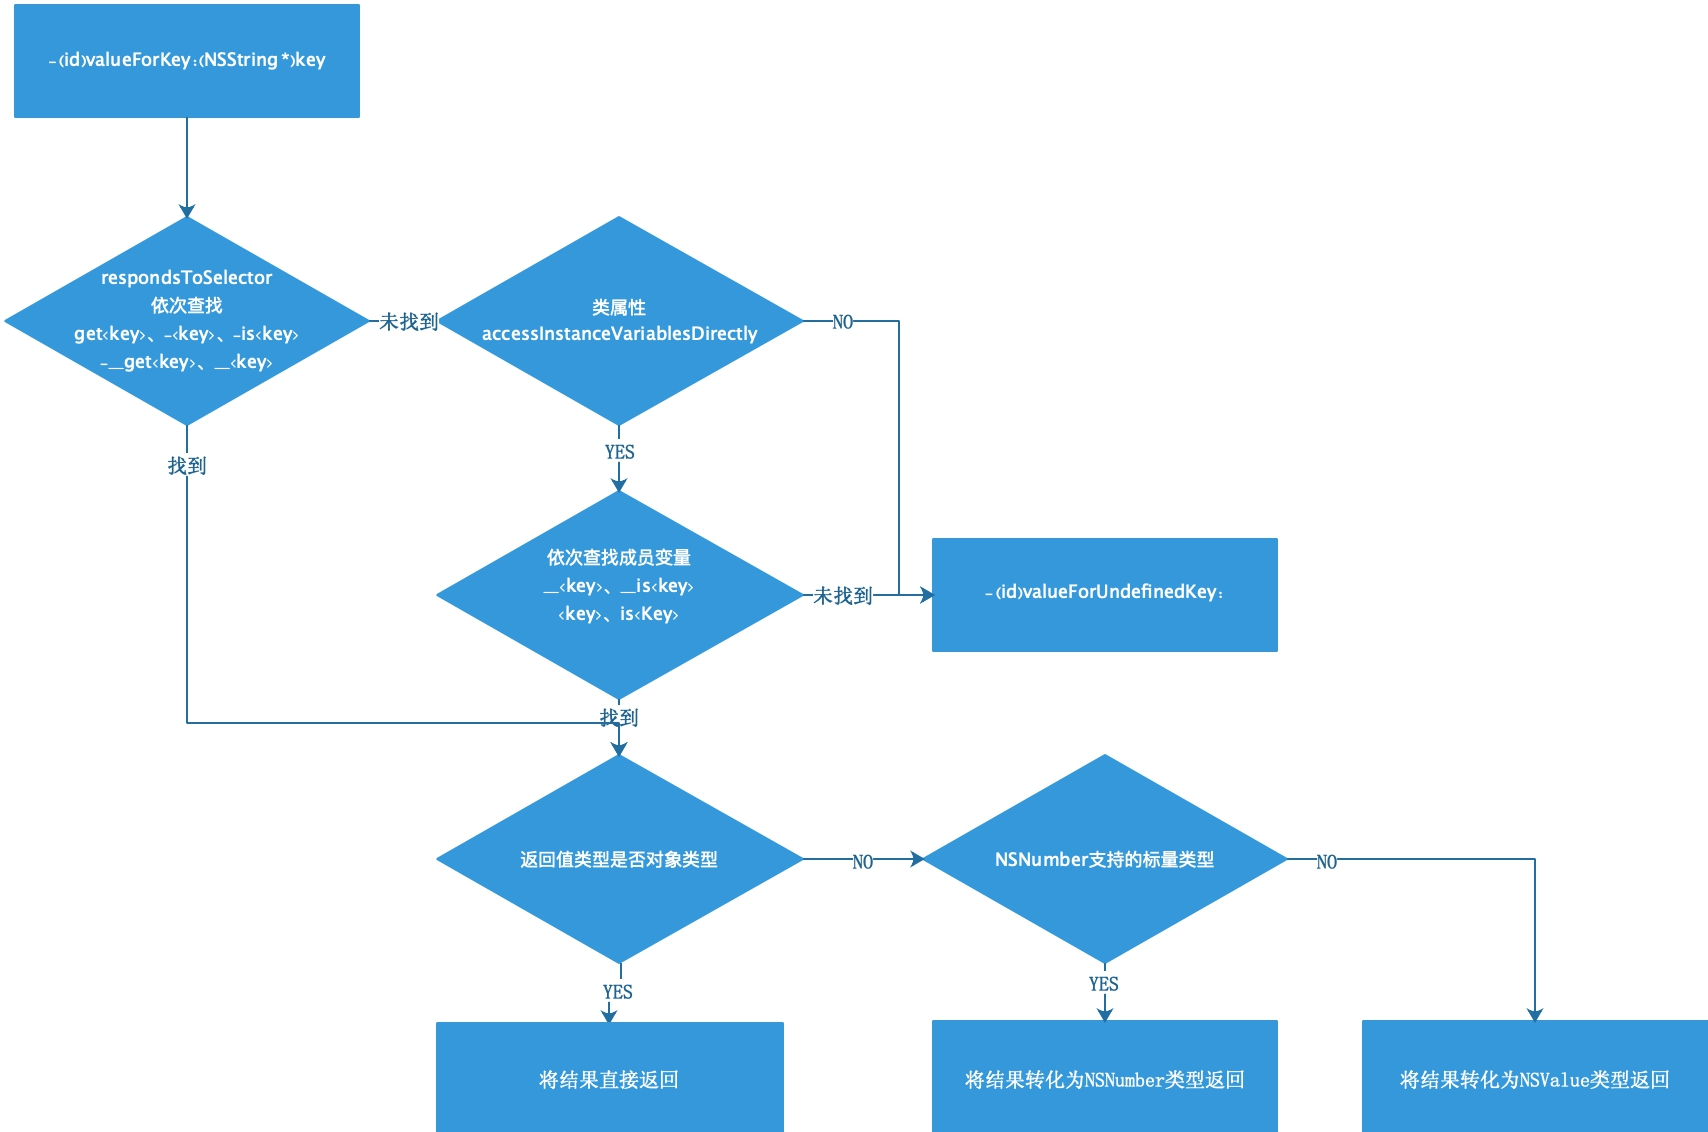
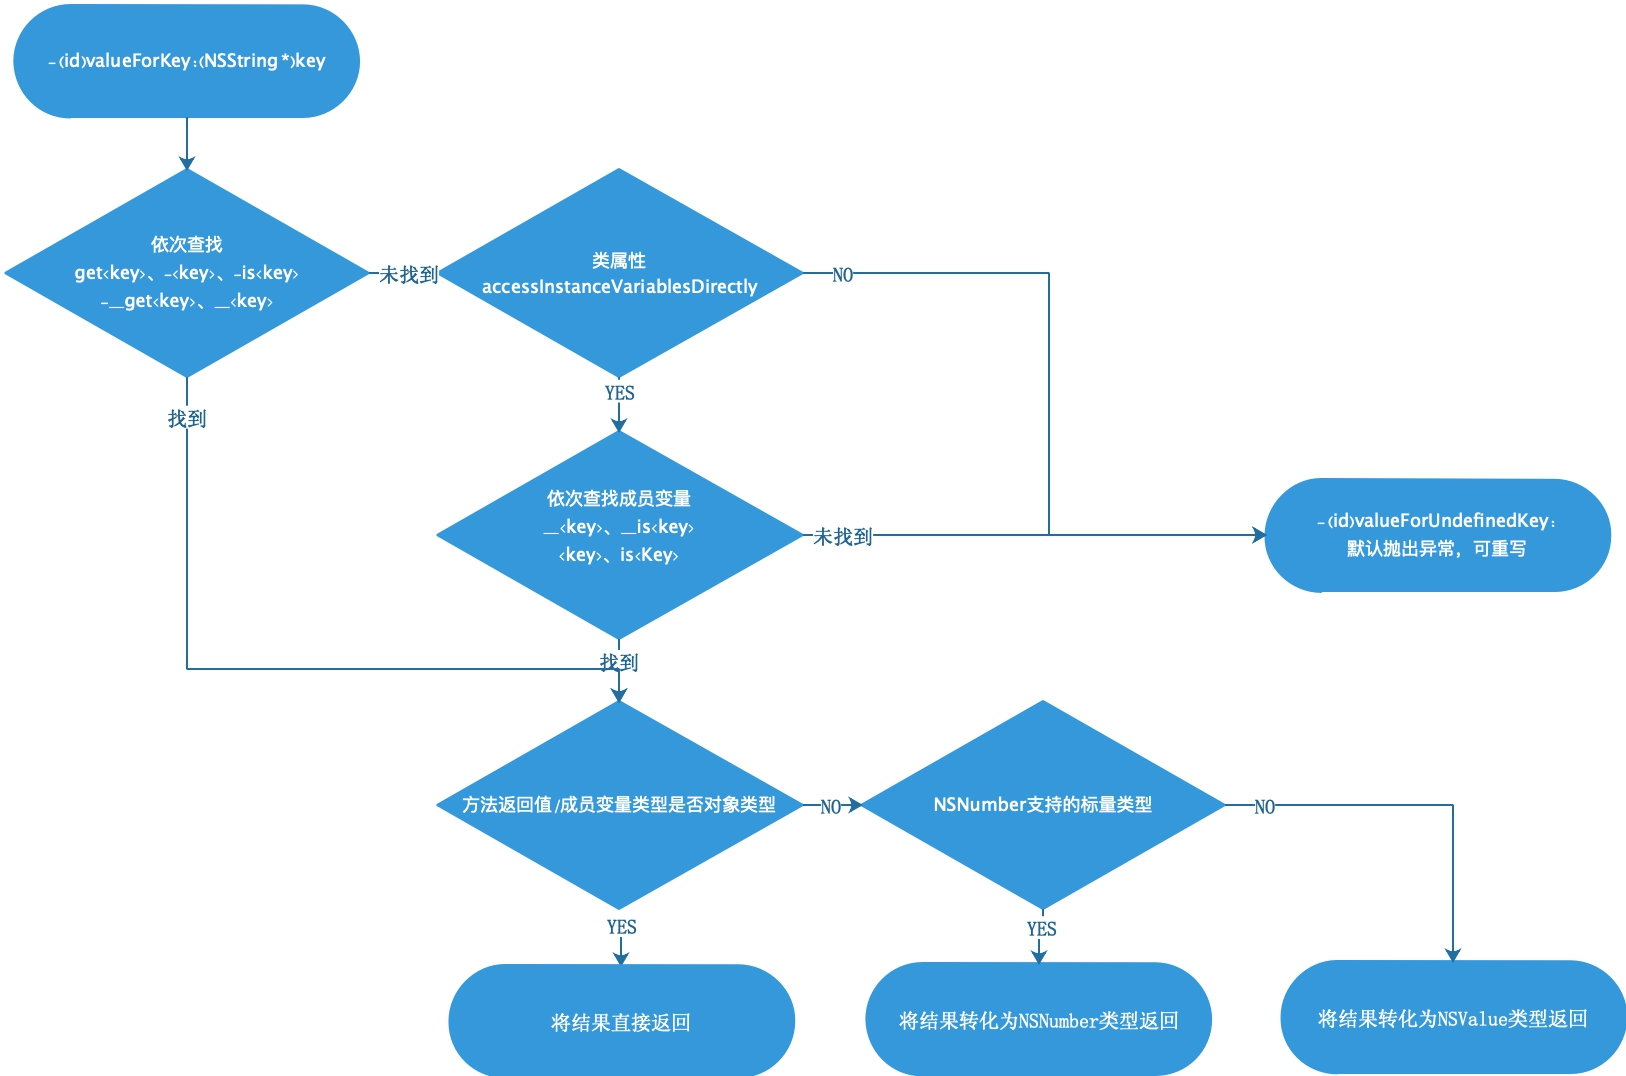
Creates assets/KVC02.jpg
Auto commit by GitBook Editor

diff --git a/kvc/kvcdiao-yong-liu-cheng.md b/kvc/kvcdiao-yong-liu-cheng.md
@@ -69,9 +69,10 @@
 > >
 > > **兼容性说明：**
 > >
-> > 在步骤1中也寻找符合-\_set &lt;Key&gt;：格式的方法。自Mac OS 10.3起，不推荐使用名称以下划线开头的KVC访问器方法。
+> > -在步骤1中也寻找符合-\_set &lt;Key&gt;：格式的方法。自Mac OS 10.3起，不推荐使用名称以下划线开头的KVC访问器方法。  
+> > -通过消息转发日志打印发现之后还会调用-set&lt;key&gt;: 和 -setPrimitive&lt;key&gt;方法。
 >
-> ![](/assets/KVC01.png)
+> ![](/assets/KVC02.jpg)
 
 #### 问题
 
